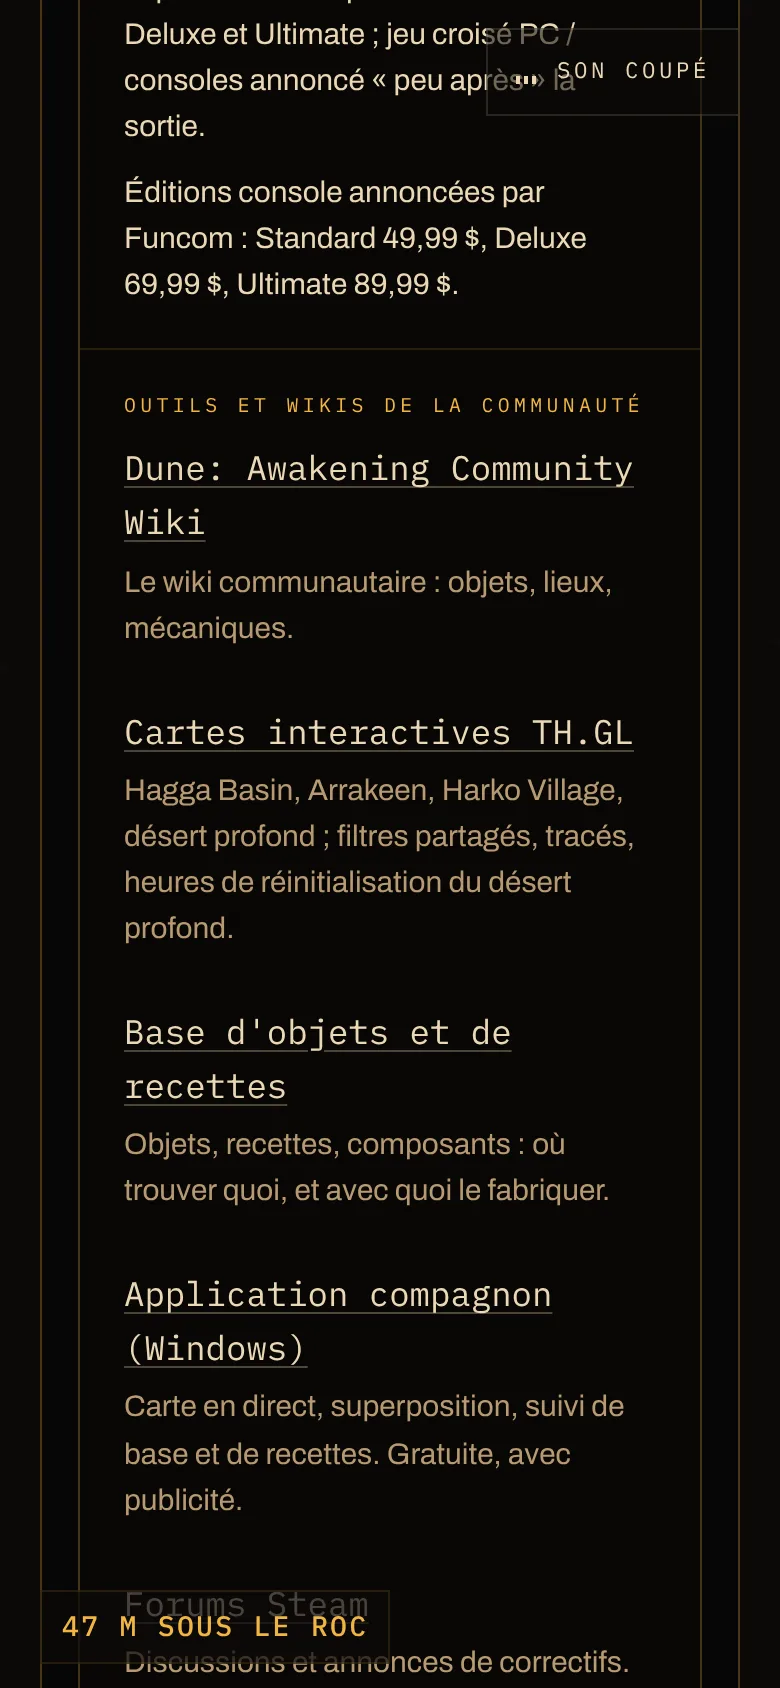
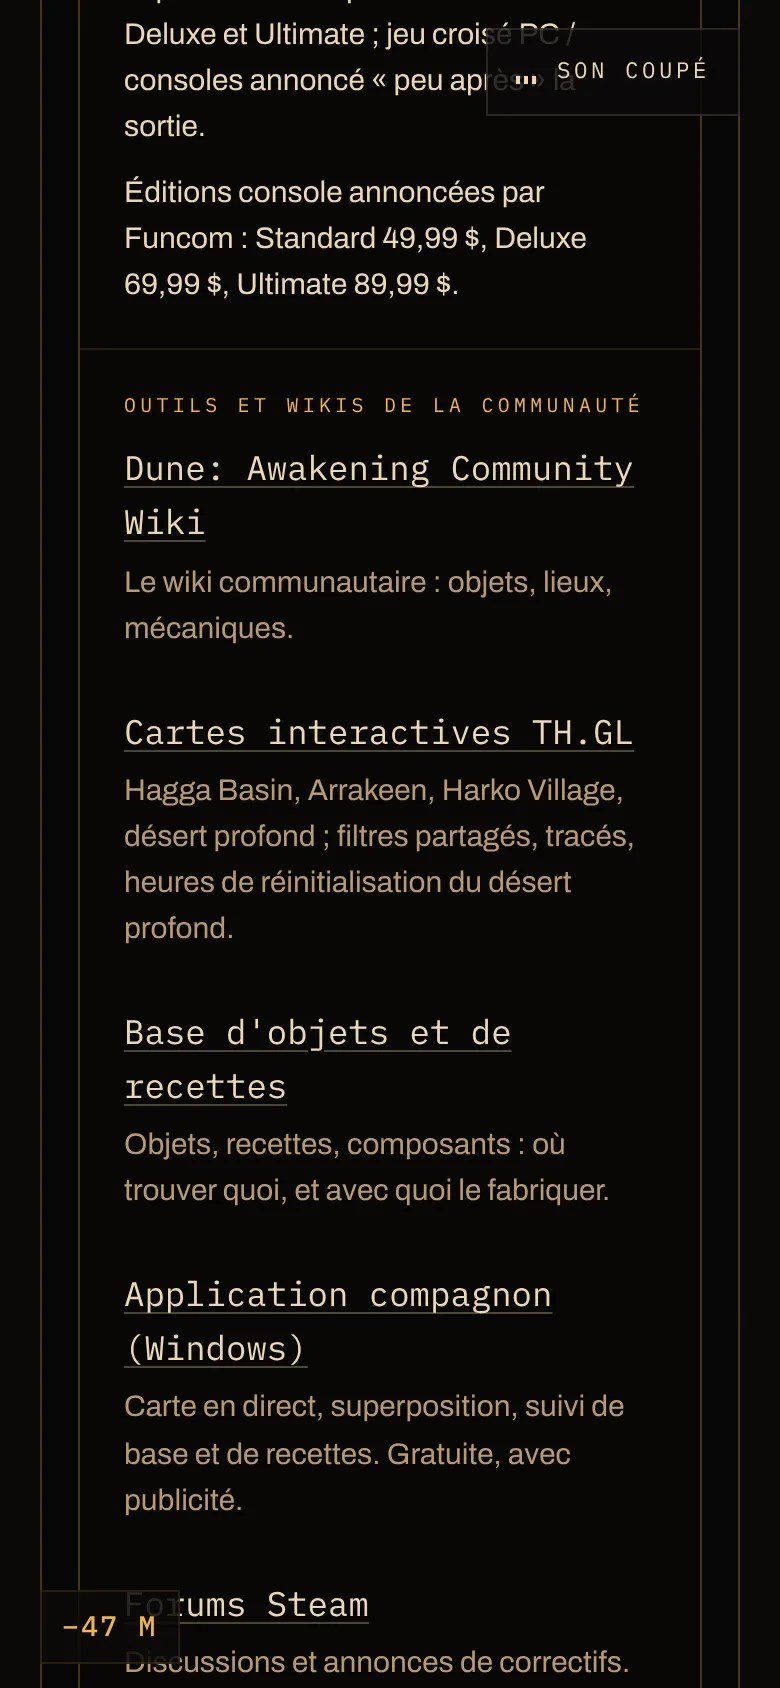
console : sous le roc, altitude négative courte (« −80 M », la phase dit « sous le roc ») pour une plaque étroite qui ne couvre plus les liens ; plaques du HUD plus opaques ; captures refaites
Claude-Session: https://claude.ai/code/session_01U1pct5BcuW4HXt57W7n8JT

Changed region(s): [[0.0923, 0.9242, 0.5231, 0.9858], [0.6154, 0.0, 0.6769, 0.0616], [0.7077, 0.0308, 0.7385, 0.0616]]

diff --git a/app/globals.css b/app/globals.css
@@ -181,13 +181,13 @@ main { position: relative; z-index: 1; }
 /* ---- Console (HUD) ------------------------------------------------------------ */
 .hud { position: fixed; z-index: 20; font-family: var(--font-mono); font-size: 0.72rem; letter-spacing: 0.14em; color: var(--amber); pointer-events: none; }
 .hud a, .hud button { pointer-events: auto; }
-.hud--alt { left: calc(var(--gutter) - 12px); top: max(10px, env(safe-area-inset-top)); display: grid; gap: 4px; padding: 10px 12px; background: rgba(11, 9, 8, 0.72); border: 1px solid rgba(242, 181, 68, 0.12); opacity: 0; transform: translateY(-6px); transition: opacity 500ms var(--ease-out), transform 500ms var(--ease-out); }
+.hud--alt { left: calc(var(--gutter) - 12px); top: max(10px, env(safe-area-inset-top)); display: grid; gap: 4px; padding: 10px 12px; background: rgba(11, 9, 8, 0.86); border: 1px solid rgba(242, 181, 68, 0.12); opacity: 0; transform: translateY(-6px); transition: opacity 500ms var(--ease-out), transform 500ms var(--ease-out); }
 html[data-descent="on"] .hud--alt { opacity: 1; transform: none; }
 .hud__label { color: var(--muted); font-size: 0.62rem; letter-spacing: 0.22em; }
 .hud__value { font-size: clamp(1rem, 1.6vw, 1.35rem); font-weight: 500; font-variant-numeric: tabular-nums; letter-spacing: 0.08em; }
 .hud__phase { font-size: 0.62rem; letter-spacing: 0.22em; color: var(--sand-dim); }
 .hud--tools { right: var(--gutter); top: max(14px, env(safe-area-inset-top)); display: flex; gap: 6px; align-items: center; }
-.hud-btn { display: inline-flex; align-items: center; gap: 10px; min-height: 44px; padding: 0 14px; border: 1px solid var(--line); background: rgba(11, 9, 8, 0.55); color: var(--text); font-family: var(--font-mono); font-size: 0.7rem; letter-spacing: 0.16em; text-transform: uppercase; transition: border-color 200ms, background 200ms; }
+.hud-btn { display: inline-flex; align-items: center; gap: 10px; min-height: 44px; padding: 0 14px; border: 1px solid var(--line); background: rgba(11, 9, 8, 0.82); color: var(--text); font-family: var(--font-mono); font-size: 0.7rem; letter-spacing: 0.16em; text-transform: uppercase; transition: border-color 200ms, background 200ms; }
 .hud-btn:hover { border-color: var(--accent); }
 .hud-btn[aria-pressed="true"] { border-color: var(--accent); color: var(--accent); }
 .hud-btn__dot { width: 7px; height: 7px; border-radius: 50%; background: var(--muted); }

diff --git a/src/lib/format.ts b/src/lib/format.ts
@@ -1,6 +1,7 @@
-/** Altitude lisible pour la console : kilomètres au-dessus de 1 km, mètres en dessous, profondeur sous le roc. */
+/** Altitude lisible pour la console : kilomètres au-dessus de 1 km, mètres en dessous ; sous le roc, valeur négative
+ *  (signe moins typographique U+2212), la ligne de phase disant « SOUS LE ROC » — la plaque reste étroite. */
 export function formatAltitude(m: number): string {
-  if (m < 0) return `${Math.round(-m)} M SOUS LE ROC`;
+  if (m < 0) return `−${Math.round(-m)} M`;
   if (m >= 100_000) return `${Math.round(m / 1000).toLocaleString("fr-FR")} KM`;
   if (m >= 10_000) return `${(m / 1000).toFixed(1).replace(".", ",")} KM`;
   if (m >= 1000) return `${(m / 1000).toFixed(2).replace(".", ",")} KM`;
